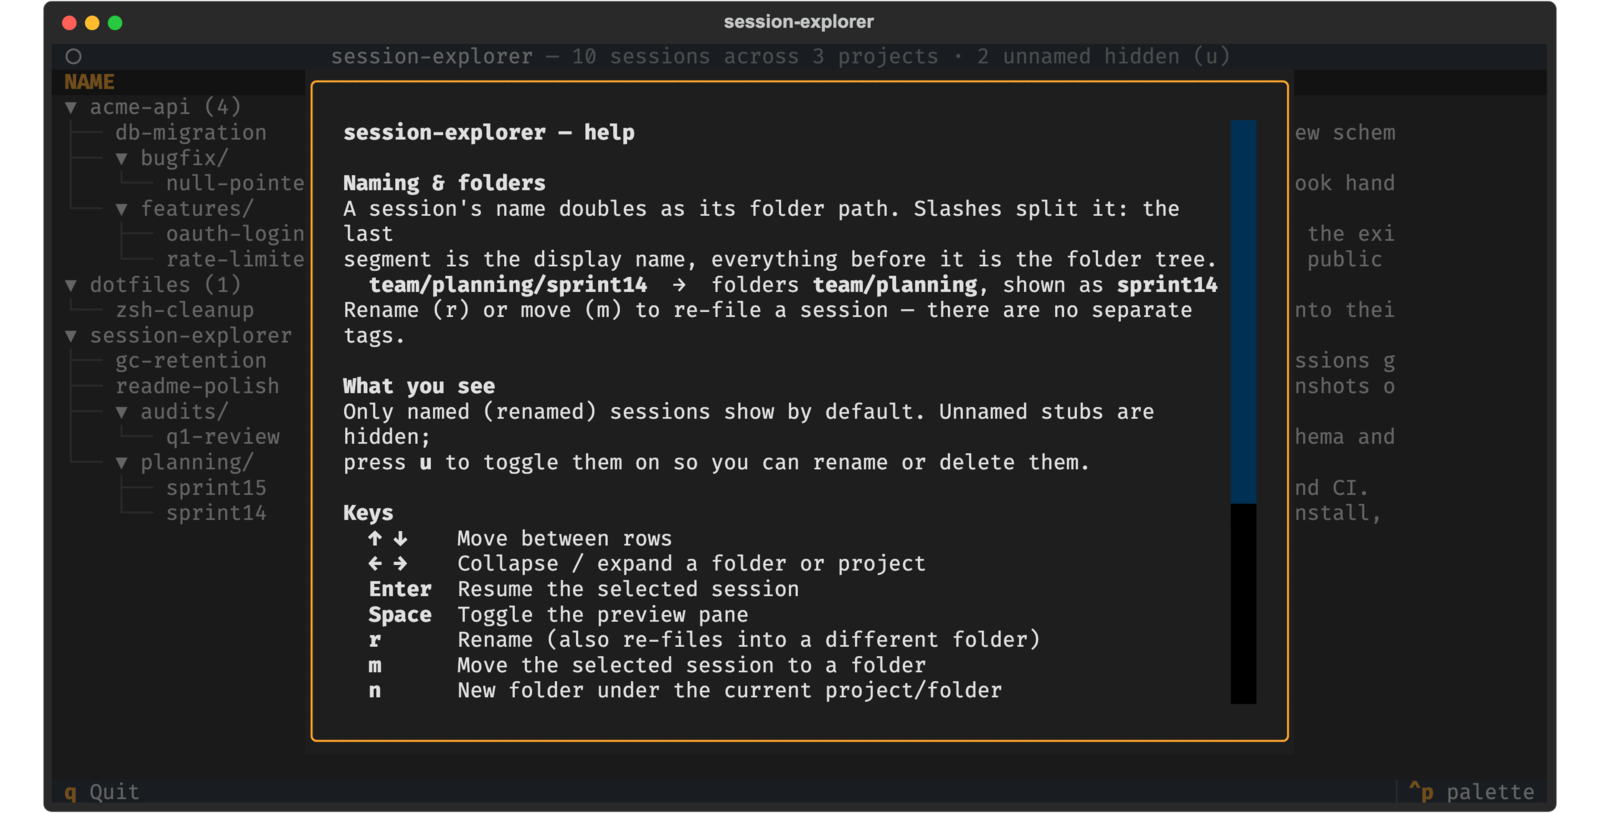
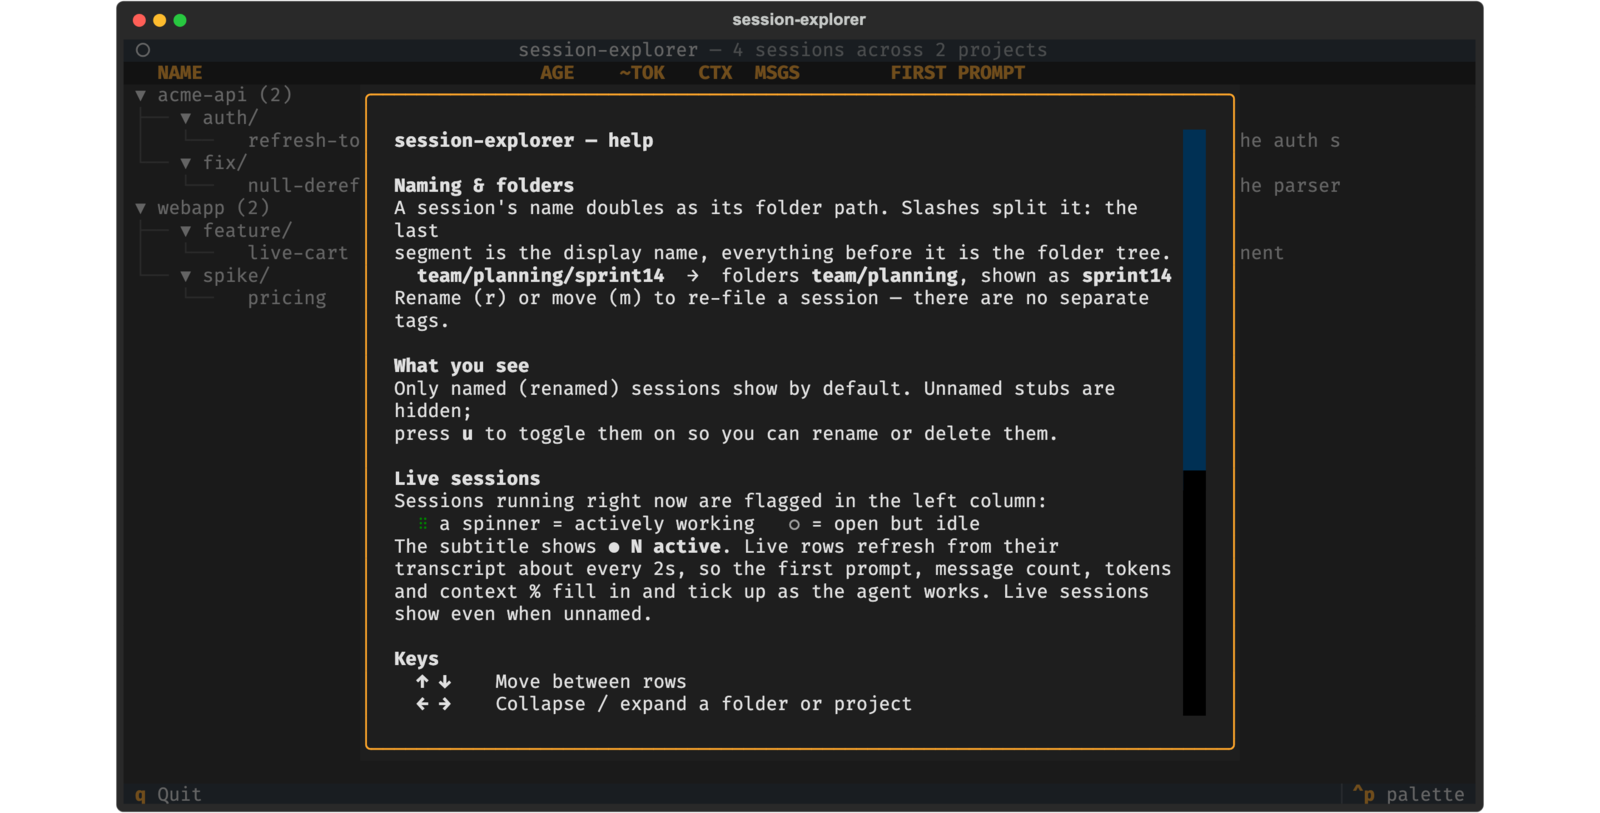
docs: screenshot generator + regenerate images with live glyphs

Changed region(s): [[0.0, 0.0, 0.875, 1.0], [0.8438, 0.0, 1.0, 1.0]]

diff --git a/scripts/gen_screenshots.py b/scripts/gen_screenshots.py
@@ -1,0 +1,116 @@
+#!/usr/bin/env python3
+"""Dev-only generator for the README TUI screenshots.
+
+Drives the REAL Textual app headless with a fabricated index, exports SVGs, then
+converts to PNG via Chrome headless + ImageMagick. NOT shipped in the plugin
+(lives under scripts/, not bin/_pkg/), so it adds no runtime dependency.
+
+Usage:  python3 scripts/gen_screenshots.py
+Requires: Google Chrome and ImageMagick (`magick`) on this machine.
+"""
+import asyncio
+import json
+import os
+import subprocess
+import sys
+import tempfile
+
+REPO = os.path.dirname(os.path.dirname(os.path.abspath(__file__)))
+sys.path.insert(0, os.path.join(REPO, "bin"))
+
+from _pkg.tui import SessionExplorerApp  # noqa: E402
+
+OUT = os.path.join(REPO, "docs", "images")
+WORK = tempfile.mkdtemp(prefix="se-shots-")
+CHROME = "/Applications/Google Chrome.app/Contents/MacOS/Google Chrome"
+
+SESSIONS = {
+    "acme-api/a-auth": {"project_label": "acme-api", "project_path": "/Users/jl/acme-api",
+        "name_cached": "auth/refresh-tokens", "branch": "main",
+        "last_active_at": "2026-05-29T08:00:00+00:00", "created_at": "2026-05-20T00:00:00+00:00",
+        "tokens_estimate": 48000, "tokens_window_pct": 24, "message_count": 36,
+        "first_prompt": "Add refresh-token rotation to the auth service", "notes": "",
+        "transcript_path": "/Users/jl/.claude/projects/acme-api/a.jsonl"},
+    "acme-api/a-bug": {"project_label": "acme-api", "project_path": "/Users/jl/acme-api",
+        "name_cached": "fix/null-deref", "branch": "main",
+        "last_active_at": "2026-05-29T07:30:00+00:00", "created_at": "2026-05-22T00:00:00+00:00",
+        "tokens_estimate": 12000, "tokens_window_pct": 6, "message_count": 9,
+        "first_prompt": "Investigate the null deref in the parser", "notes": "",
+        "transcript_path": "/Users/jl/.claude/projects/acme-api/b.jsonl"},
+    "webapp/w-feat": {"project_label": "webapp", "project_path": "/Users/jl/webapp",
+        "name_cached": "feature/live-cart", "branch": "main",
+        "last_active_at": "2026-05-29T09:59:00+00:00", "created_at": "2026-05-28T00:00:00+00:00",
+        "tokens_estimate": 91000, "tokens_window_pct": 45, "message_count": 58,
+        "first_prompt": "Build the live cart total component", "notes": "review before merge",
+        "transcript_path": "/Users/jl/.claude/projects/webapp/w.jsonl"},
+    "webapp/w-idle": {"project_label": "webapp", "project_path": "/Users/jl/webapp",
+        "name_cached": "spike/pricing", "branch": "main",
+        "last_active_at": "2026-05-29T09:40:00+00:00", "created_at": "2026-05-27T00:00:00+00:00",
+        "tokens_estimate": 33000, "tokens_window_pct": 16, "message_count": 21,
+        "first_prompt": "Prototype the new pricing tiers", "notes": "",
+        "transcript_path": "/Users/jl/.claude/projects/webapp/wi.jsonl"},
+}
+LIVE = {"webapp/w-feat": "working", "webapp/w-idle": "idle"}
+
+
+def _write_index(path):
+    json.dump({"version": 2, "sessions": SESSIONS}, open(path, "w"))
+
+
+async def _shoot(idx_path, name, live=None, open_help=False, open_preview=False):
+    app = SessionExplorerApp(index_path=idx_path)
+    async with app.run_test(size=(120, 34)) as pilot:
+        await pilot.pause()
+        if live:
+            app._live_states = dict(live)
+            app._spinner_frame = 7  # a dense, legible braille frame (⠧)
+            # Repopulate so the "● N active" subtitle is recomputed (it's set in
+            # _populate, which ran on mount with an empty live set); this also
+            # re-renders every row's live glyph via _row_label.
+            app._populate()
+            app._relabel_live_rows()
+            await pilot.pause()
+        if open_preview:
+            # Preview is empty unless a session row (not a folder/project) is
+            # highlighted; move the cursor onto a named session with notes first.
+            app._restore_cursor_to_sid("webapp/w-feat")
+            await pilot.pause()
+            app.action_preview()
+            await pilot.pause()
+        if open_help:
+            app.action_help()
+            await pilot.pause()
+        app.save_screenshot(os.path.join(WORK, f"{name}.svg"))
+
+
+def _svg_to_png(name):
+    svg = os.path.join(WORK, f"{name}.svg")
+    chrome_png = os.path.join(WORK, f"{name}.chrome.png")
+    subprocess.run([CHROME, "--headless=new", "--disable-gpu", "--hide-scrollbars",
+                    "--force-device-scale-factor=2", "--default-background-color=00000000",
+                    "--window-size=1439,731", f"--screenshot={chrome_png}",
+                    f"file://{svg}"], check=True,
+                   stdout=subprocess.DEVNULL, stderr=subprocess.DEVNULL)
+    subprocess.run(["magick", chrome_png, "-resize", "1600x", "-strip",
+                    os.path.join(OUT, f"{name}.png")], check=True)
+
+
+def main():
+    os.makedirs(OUT, exist_ok=True)
+    idx = os.path.join(WORK, "index.json")
+    _write_index(idx)
+    # Suppress first-run modals so the app mounts straight to the tree.
+    d = os.path.dirname(idx)
+    open(os.path.join(d, ".session-explorer.help-seen"), "w").close()
+    open(os.path.join(d, ".session-explorer.retention-declined"), "w").close()
+    asyncio.run(_shoot(idx, "tree", live=LIVE))
+    asyncio.run(_shoot(idx, "live", live=LIVE))
+    asyncio.run(_shoot(idx, "preview", live=LIVE, open_preview=True))
+    asyncio.run(_shoot(idx, "help", open_help=True))
+    for name in ("tree", "live", "preview", "help"):
+        _svg_to_png(name)
+        print("wrote", os.path.join(OUT, f"{name}.png"))
+
+
+if __name__ == "__main__":
+    main()
